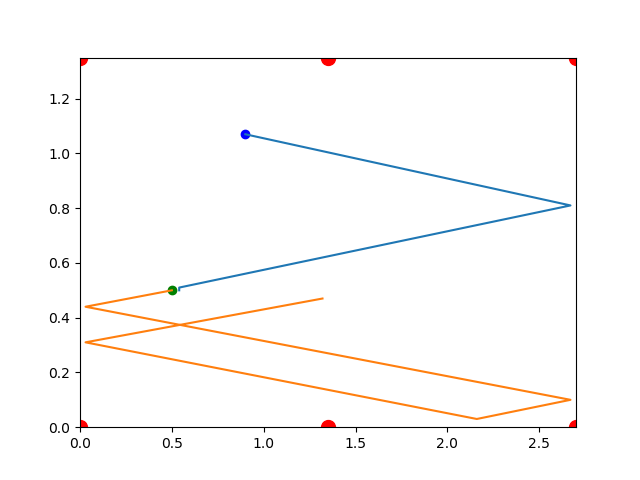
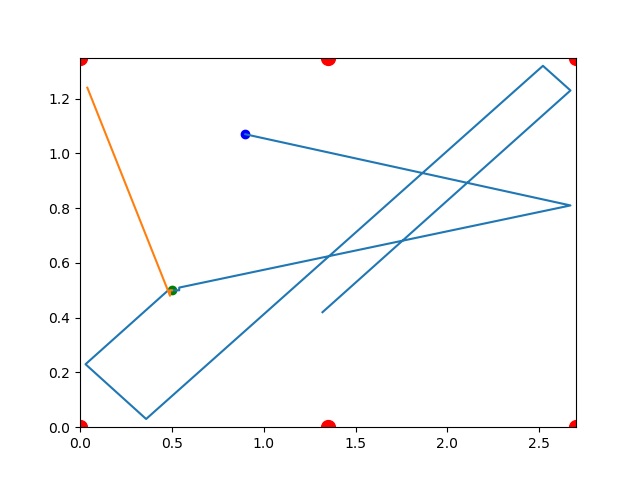
Mass variation

diff --git a/fiz3/phproject3.py b/fiz3/phproject3.py
@@ -224,7 +224,7 @@ def main(index, fhandle):
     print("-"*30, index+1, "-"*30)
     column = tuplify(DATA[index], NAMESIN, NAMESIN)
     draw([column['white'], column['colored']])
-    balls = [Ball(column['white'], column['velocity']), Ball(column['colored'])]
+    balls = [Ball(column['white'], column['velocity']), Ball(column['colored'], mass=2*BALL_MASS)]
     counter = {'white':-1, 'color':-1, 'ball':0}
     # loop every bounce
     while balls[0].inside and balls[1].inside:
